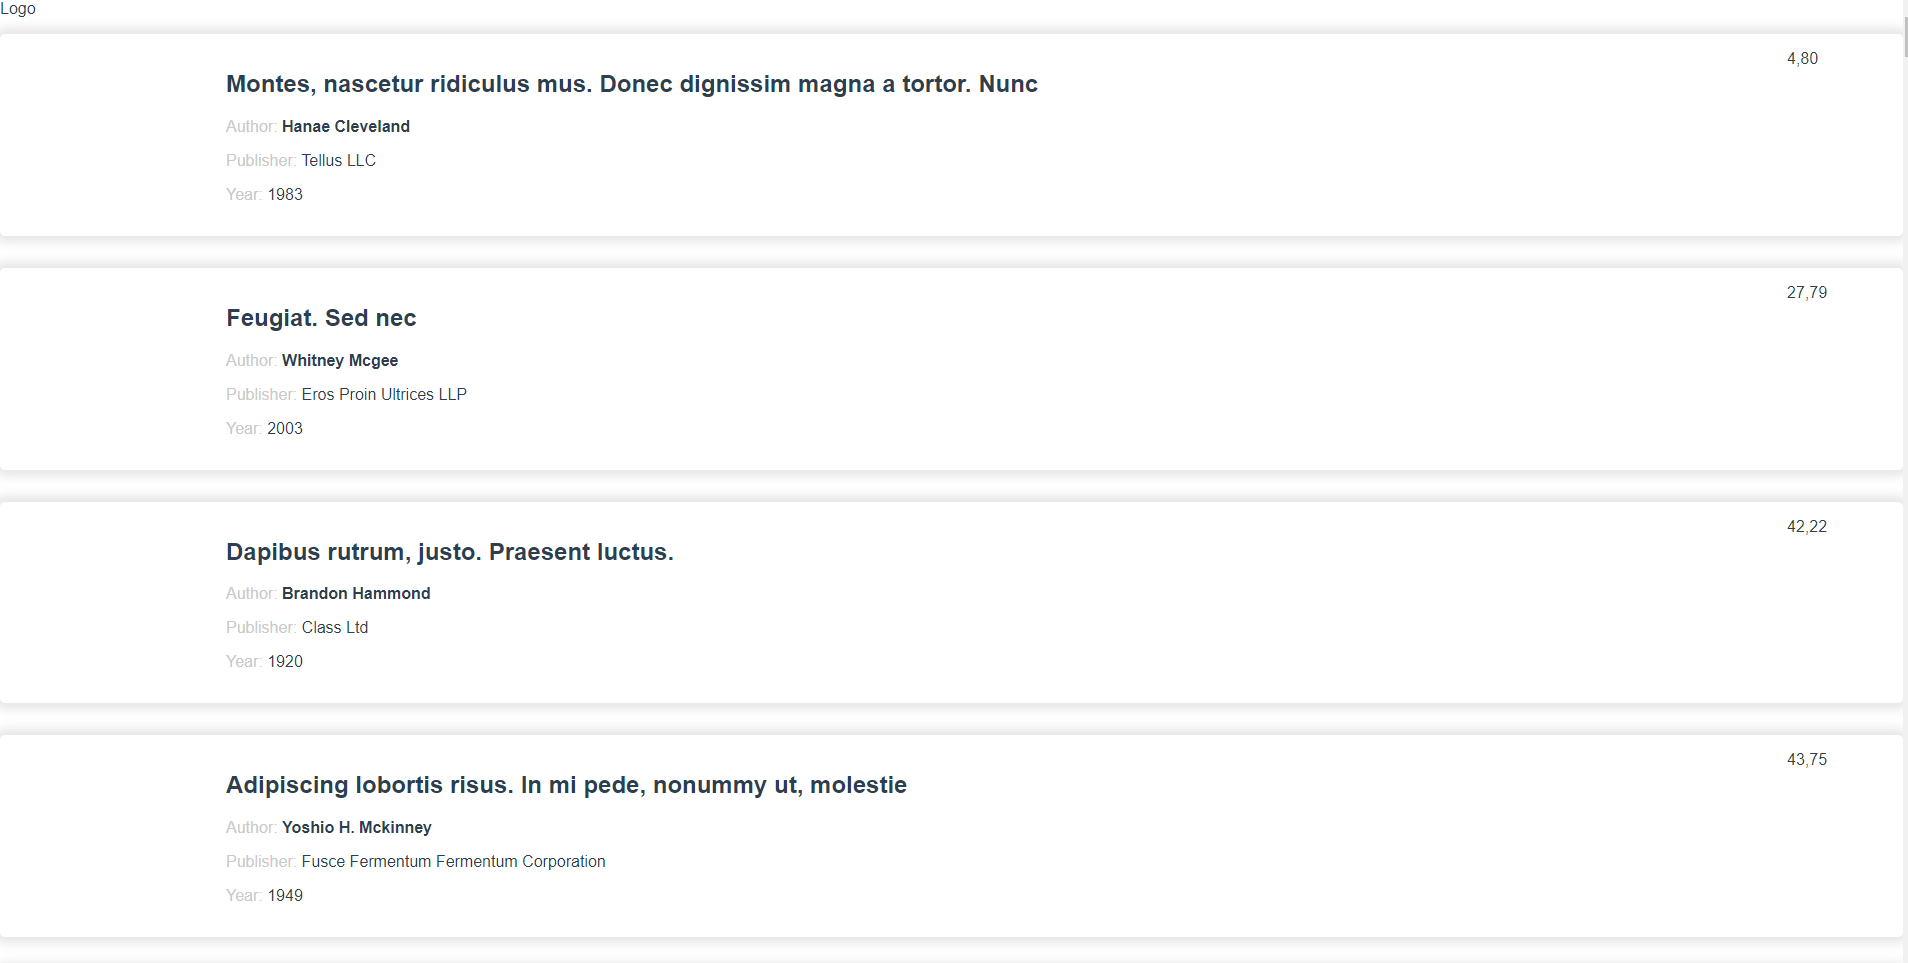
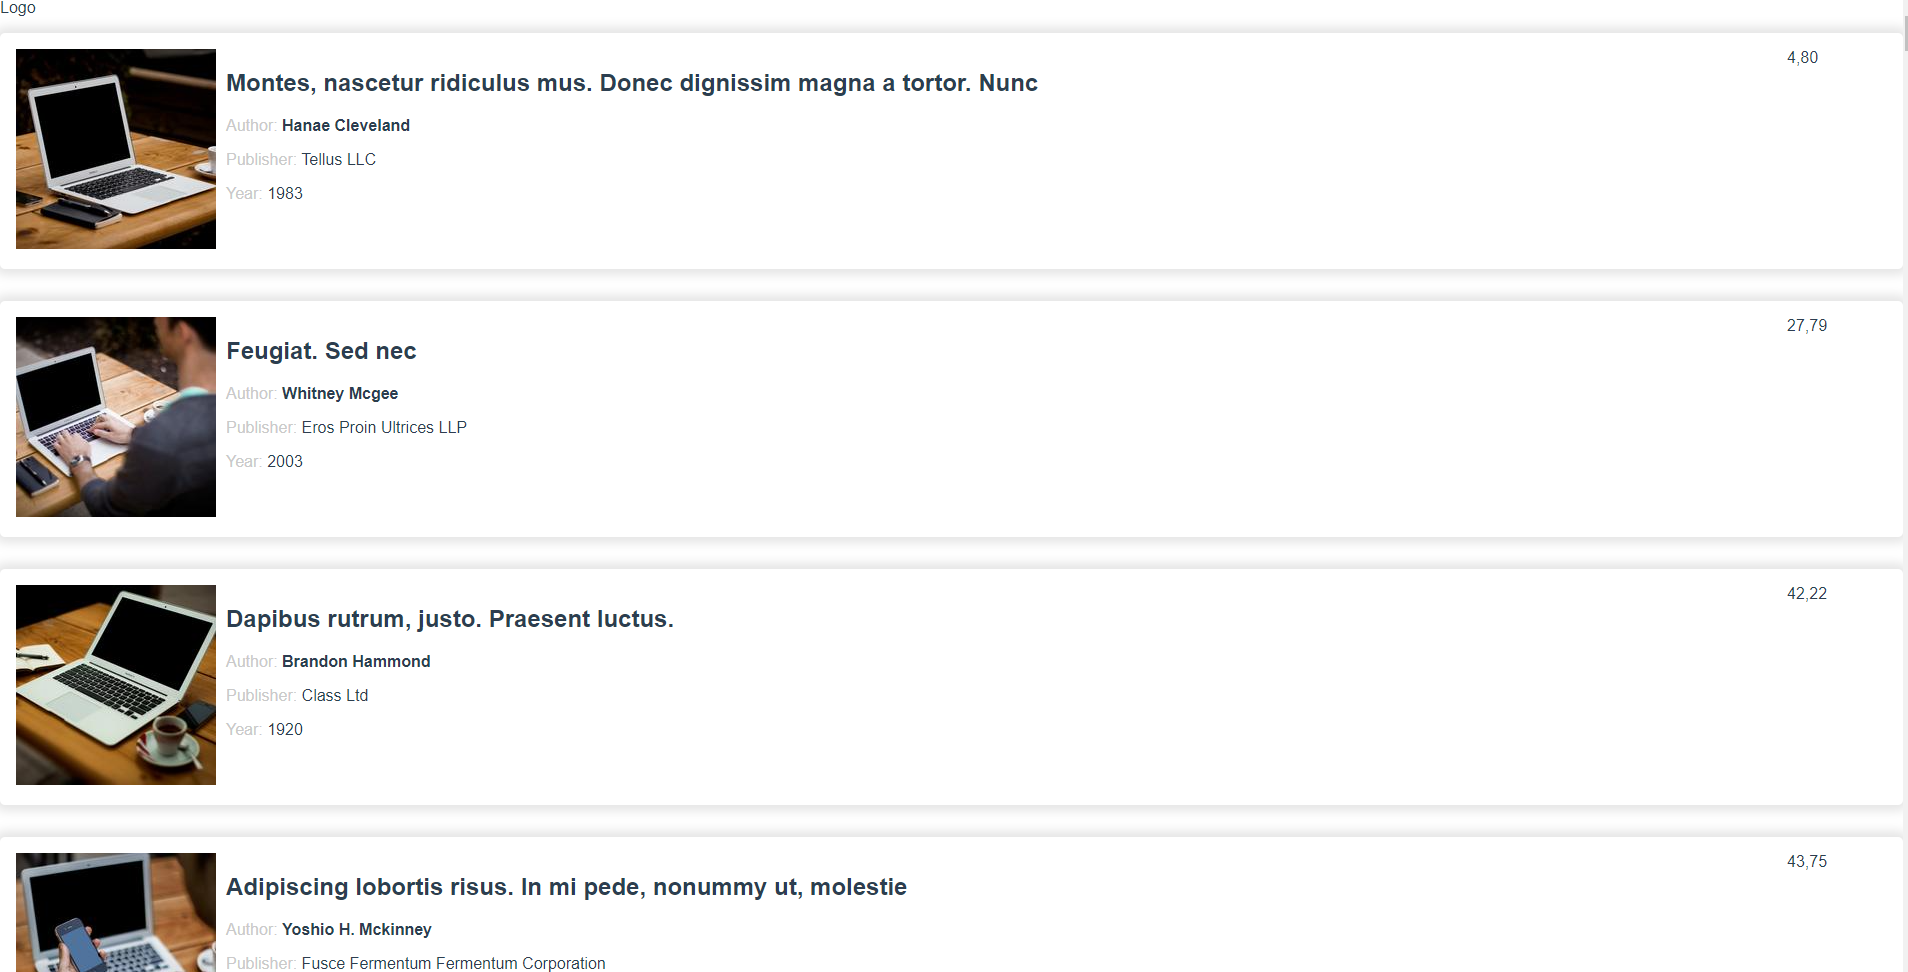
Actualziadas imágenes y arreglado typo en la URL de la img

diff --git a/04-frameworks/03-vue/01_ecommerce_app_primer_dia/src/components/ProductList.vue b/04-frameworks/03-vue/01_ecommerce_app_primer_dia/src/components/ProductList.vue
@@ -3,7 +3,7 @@
     <li v-for="product in list" :key="product.id">
       <article class="grid product-container card">
         <div class="image">
-          <img :src="`https://picsum.photos/id/${product.id}/+200`" alt="" />
+          <img :src="`https://picsum.photos/id/${product.id}/200`" alt="" />
         </div>
         <div class="product-container__content">
           <h2>

diff --git a/04-frameworks/03-vue/01_ecommerce_app/README.md b/04-frameworks/03-vue/01_ecommerce_app/README.md
@@ -1,5 +1,9 @@
 # 01_ecommerce_app
 
+<img src="./screenshot.png" width="800px" />
+
+## Inicio
+
 ```
 vue create <name>
 # Con el siguiente preset: (opcional, pero recomendado para el máster)
@@ -446,7 +450,7 @@ Para darle un aspecto más real, añadiremos una imagen y un poco más de estruc
        <!-- Añadimos una capa de contenedor y unas clases -->
 +      <article class="grid product-container card">
 +        <div class="image">
-+          <img :src="`https://picsum.photos/id/${product.id}/+200`" alt="" />
++          <img :src="`https://picsum.photos/id/${product.id}/200`" alt="" />
 +        </div>
 +        <div class="product-container__content">
 ...          <!-- Aquí los datos que acabábamos de añadir -->
